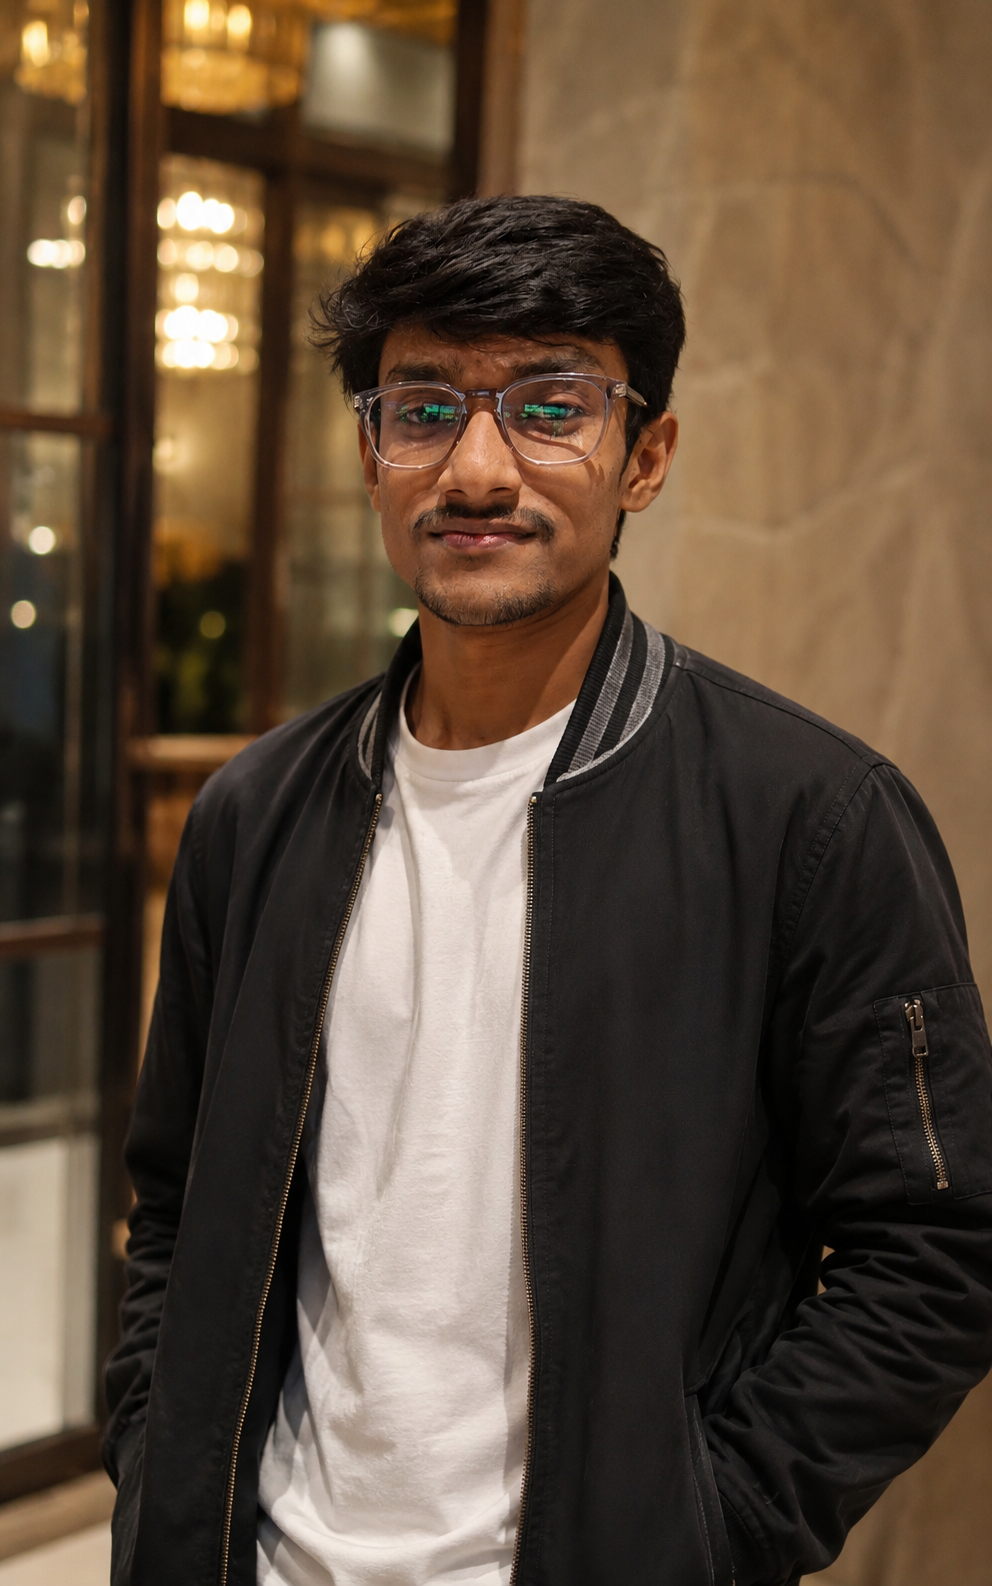
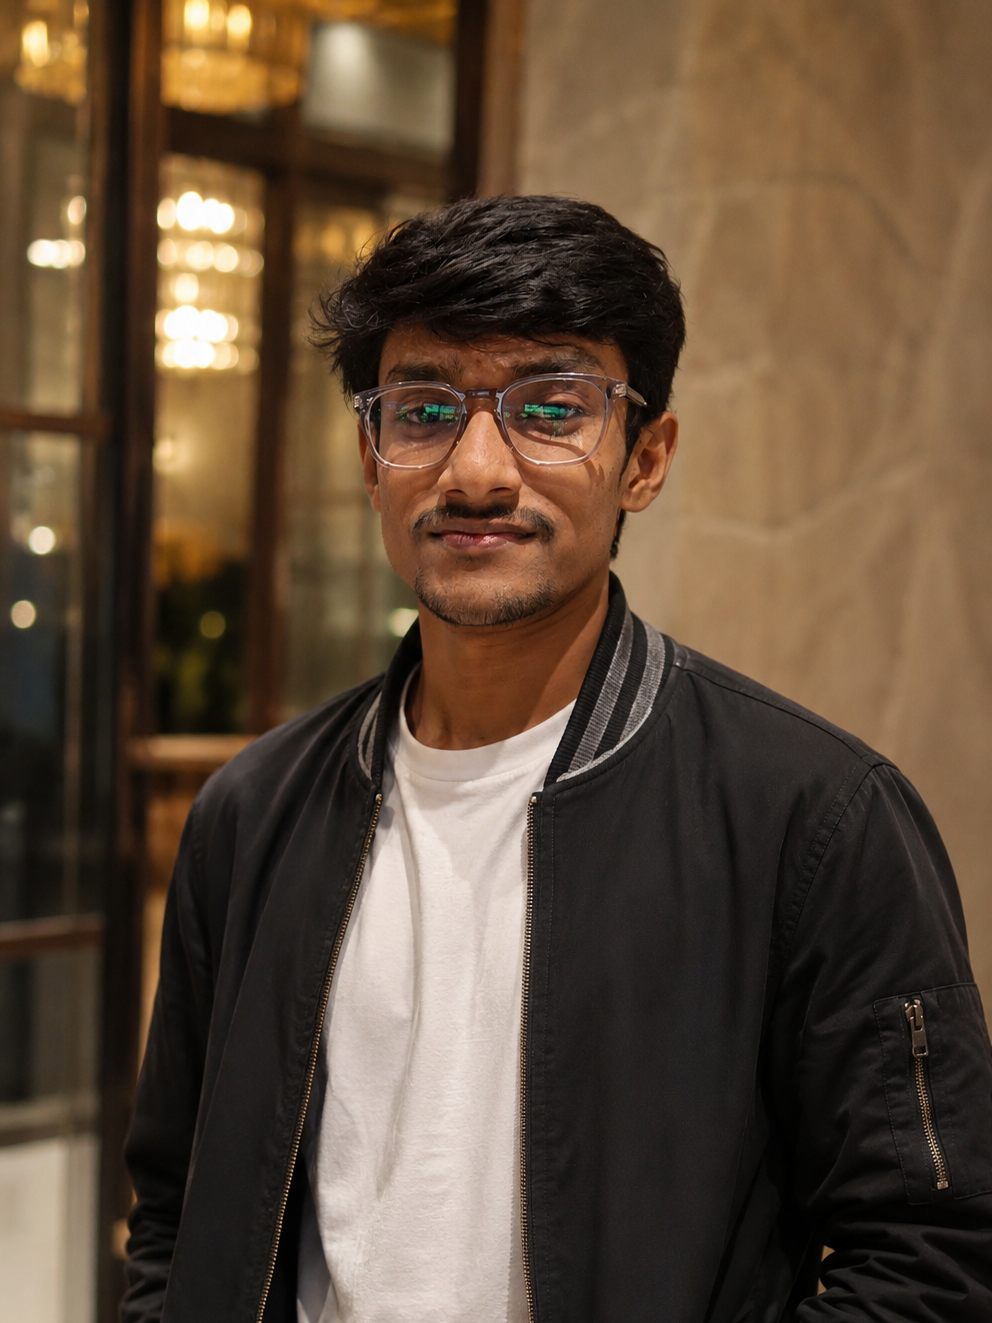
Fix section heading typo

diff --git a/src/pages/Careers/CareerHeader.tsx b/src/pages/Careers/CareerHeader.tsx
@@ -28,10 +28,10 @@ const CareerHeader: React.FC = () => {
                 transition={{ duration: 0.8 }}
                 className="text-2xl sm:text-3xl md:text-4xl font-bold text-slate-900 dark:text-white mb-3 tracking-tight leading-tight"
             >
-                Grow With Us.{' '}
+                Grow With Us{' '}
                 <TitleIconCapsule icons={careerIcons} delay={0} />{' '}
                 <span className="text-primary">Build The</span>{' '}
-                <span className="text-secondary">Future.</span>
+                <span className="text-secondary">Future</span>
             </motion.h1>
 
             <motion.p

diff --git a/src/pages/About/AboutValues.tsx b/src/pages/About/AboutValues.tsx
@@ -41,7 +41,7 @@ const AboutValues: React.FC = () => {
                         Our <span className="text-primary">Mission</span>{' '}
                         <TitleIconCapsule icons={missionIcons} delay={0} />{' '}
                         &amp; <span className="text-secondary">Vision</span>{' '}
-                        <TitleIconCapsule icons={visionIcons} delay={700} initialIndex={1} />.
+                        <TitleIconCapsule icons={visionIcons} delay={700} initialIndex={1} />
                     </motion.h2>
                     <motion.p
                         initial={{ opacity: 0 }}

diff --git a/src/components/sections/OurSolution.tsx b/src/components/sections/OurSolution.tsx
@@ -59,7 +59,7 @@ const OurSolution: React.FC = () => {
                         <TitleIconCapsule icons={problemIcons} delay={0} />.{' '}
                         <span className="text-primary">Simple</span>{' '}
                         <TitleIconCapsule icons={solutionIcons} delay={700} initialIndex={1} />{' '}
-                        <span className="text-secondary">Solutions.</span>
+                        <span className="text-secondary">Solutions</span>
                     </motion.h2>
                     <motion.div
                         initial={{ opacity: 0 }}

diff --git a/src/pages/Home/Blog.tsx b/src/pages/Home/Blog.tsx
@@ -45,7 +45,7 @@ const Blog: React.FC = () => {
                         <TitleIconCapsule icons={articleIcons} delay={0} />{' '}
                         & <span className="text-primary">Expertise</span>{' '}
                         <TitleIconCapsule icons={trendIcons} delay={700} initialIndex={1} />{' '}
-                        <span className="text-secondary">Shared.</span>
+                        <span className="text-secondary">Shared</span>
                     </motion.h2>
                     <motion.p
                         initial={{ opacity: 0 }}

diff --git a/src/pages/About/AboutHeader.tsx b/src/pages/About/AboutHeader.tsx
@@ -40,7 +40,7 @@ const AboutHeader: React.FC = () => {
                 <br className="hidden sm:inline" />
                 <span className="text-primary">Solutions</span>{' '}
                 <TitleIconCapsule icons={partnerIcons} delay={700} initialIndex={1} />{' '}
-                <span className="text-secondary">Partner.</span>
+                <span className="text-secondary">Partner</span>
             </motion.h1>
 
             <motion.p

diff --git a/src/pages/FreePrototype/index.tsx b/src/pages/FreePrototype/index.tsx
@@ -99,7 +99,7 @@ const FreePrototypePage: React.FC = () => {
                                 See It Before{' '}
                                 <TitleIconCapsule icons={prototypeIcons} delay={0} />{' '}
                                 <span className="text-primary">
-                                    You Sign.
+                                    You Sign
                                 </span>
                             </motion.h1>
 
